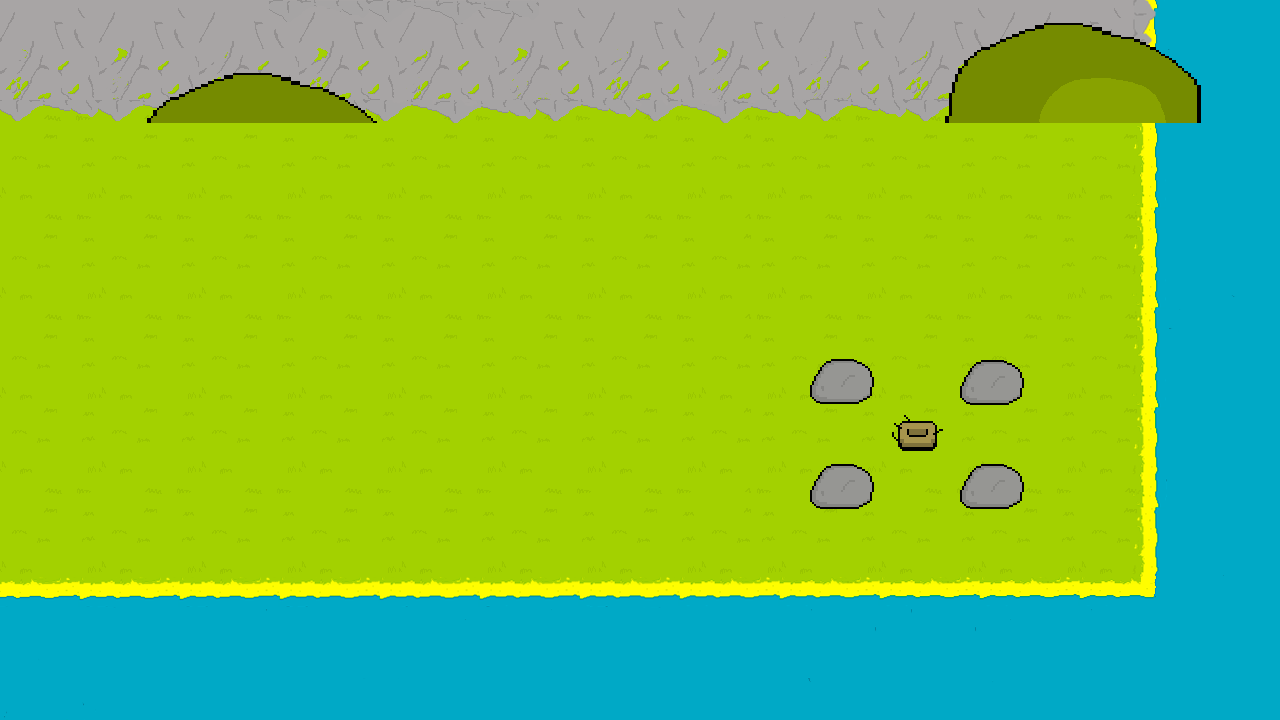
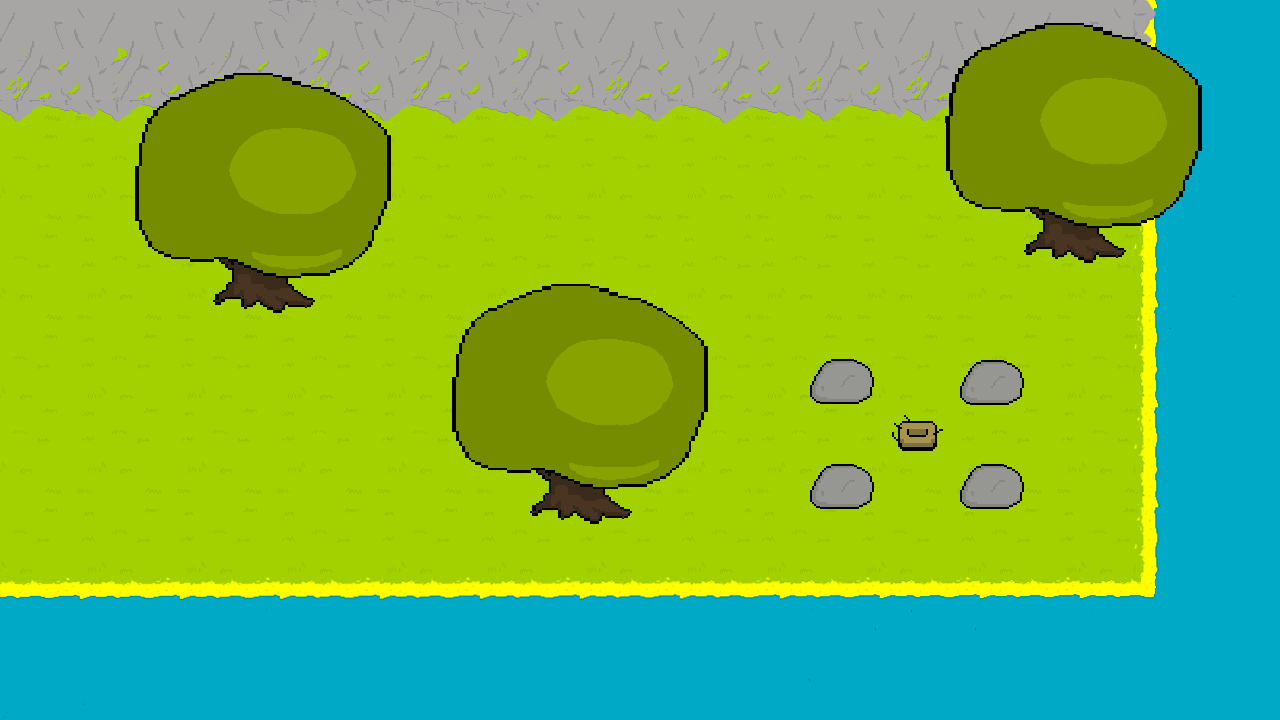
update nas cenas para que a vegetação seja renderizada.

Changed region(s): [[0.3438, 0.3972, 0.5625, 0.7333], [0.0938, 0.1528, 0.3125, 0.4278], [0.7188, 0.1528, 0.9375, 0.3667]]

diff --git a/src/ambienteUm.c b/src/ambienteUm.c
@@ -94,6 +94,7 @@ enum statesGame ambienteUm(ALLEGRO_EVENT_QUEUE *fila, ALLEGRO_EVENT evento){
         addPartes(tileAtual.ID, &xInimigo, &yInimigo, &x, &y, &flagVida);
         addPartes(tileAtual.ID, &xInimigo2, &yInimigo2, &x, &y, &flagVida);
         movimentacao(evento, &tileAtual, &x, &y, &t);
+        al_draw_bitmap(tileAtual.arvores, 0, 0, 0);
         al_draw_bitmap(pontos[flagPontos], 1100, 0, 0);
         al_draw_bitmap(vida[flagVida], 50, 0, 0);
         al_flip_display();
